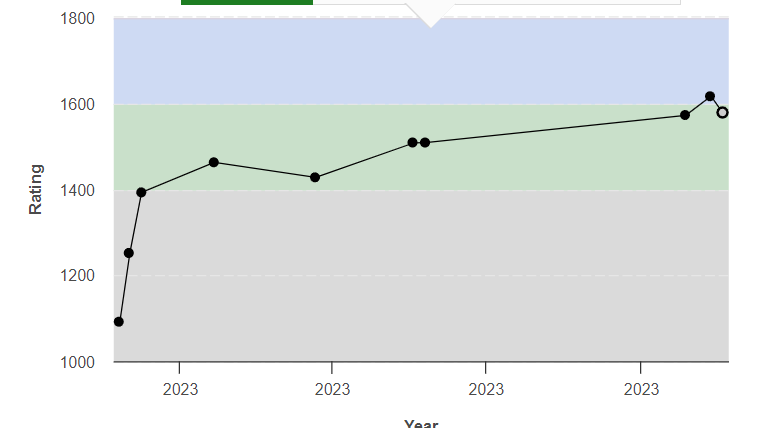
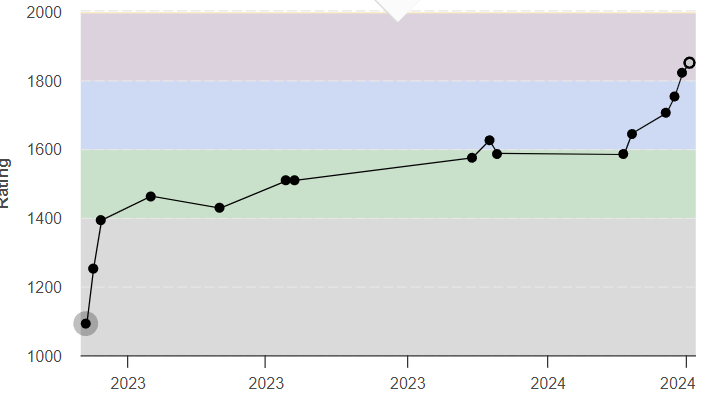
Done Some Changes

diff --git a/src/sections/Education.jsx b/src/sections/Education.jsx
@@ -44,9 +44,9 @@ const Education = ({ dark }) => {
                                 <div
                                     data-aos="fade-up"
                                     className='relative w-full ml-4' key={i}>
-                                    <div className={`z-[2] absolute inset-y-4 -left-6 animate-ping w-6 h-6 rounded-full border-2 ${dark ? 'border-slate-100 bg-pink-600' : 'border-slate-700 bg-green-300'} `} />
-                                    <div className={`z-[2] absolute inset-y-4 -left-6  w-6 h-6 rounded-full border-2 ${dark ? 'border-slate-100 bg-pink-600' : 'border-slate-700 bg-green-500'} `} />
-                                    <div className={`z-[2] absolute inset-y-6 -left-0 w-12 h-1 rounded-r-3xl   ${dark ? 'bg-purple-400' : 'bg-blue-500'}`} />
+                                    <div className={`z-[2] absolute inset-y-2 -left-6 animate-ping w-6 h-6 rounded-full border-2 ${dark ? 'border-slate-100 bg-pink-600' : 'border-slate-700 bg-green-300'} `} />
+                                    <div className={`z-[2] absolute inset-y-2 -left-6  w-6 h-6 rounded-full border-2 ${dark ? 'border-slate-100 bg-pink-600' : 'border-slate-700 bg-green-500'} `} />
+                                    <div className={`z-[2] absolute inset-y-4 -left-0 w-12 h-1 rounded-r-3xl   ${dark ? 'bg-purple-400' : 'bg-blue-500'}`} />
                                     <EducationCard dark={dark} edu={edu} />
                                 </div>
                             ))
@@ -56,9 +56,9 @@ const Education = ({ dark }) => {
                                 <div
                                     data-aos="fade-up"
                                     className='relative w-full ml-4' key={i}>
-                                    <div className={`z-[2] absolute inset-y-4 -left-6 animate-ping w-6 h-6 rounded-full border-2 ${dark ? 'border-slate-100 bg-pink-600' : 'border-slate-700 bg-green-300'} `} />
-                                    <div className={`z-[2] absolute inset-y-4 -left-6  w-6 h-6 rounded-full border-2 ${dark ? 'border-slate-100 bg-pink-600' : 'border-slate-700 bg-green-500'} `} />
-                                    <div className={`z-[2] absolute inset-y-6 -left-0 w-12 h-1 rounded-r-3xl   ${dark ? 'bg-purple-400' : 'bg-blue-500'}`} />
+                                    <div className={`z-[2] absolute inset-y-2 -left-6 animate-ping w-6 h-6 rounded-full border-2 ${dark ? 'border-slate-100 bg-pink-600' : 'border-slate-700 bg-green-300'} `} />
+                                    <div className={`z-[2] absolute inset-y-2 -left-6  w-6 h-6 rounded-full border-2 ${dark ? 'border-slate-100 bg-pink-600' : 'border-slate-700 bg-green-500'} `} />
+                                    <div className={`z-[2] absolute inset-y-4 -left-0 w-12 h-1 rounded-r-3xl   ${dark ? 'bg-purple-400' : 'bg-blue-500'}`} />
                                     <AchievementCard dark={dark} achievement={achievement} />
                                 </div>
                             ))

diff --git a/src/sections/Contact.jsx b/src/sections/Contact.jsx
@@ -4,9 +4,9 @@ const Contact = ({ dark }) => {
 
     const aboutMe = {
         intro: "Deepanshu Singhal",
-        current: `Pursuing <b>B.Tech</b> in CSE from <br/>Netaji Subhas University Of Technology<b>`,
+        current: ` <b>B.Tech  CSE  NSIT<b>`,
         info: "Full Stack Developer ",
-        email: `Email: <b>deepanshusinghal2003@gmail.com</b>`,
+        email: `Email: <i>deepanshusinghal2003@gmail.com</i>`,
         location: "Location: <b>New Delhi, IN </b>"
     }
 
@@ -28,7 +28,7 @@ const Contact = ({ dark }) => {
                     <div className='relative max-w-max flex items-center justify-center  mx-auto group'
                         data-aos="fade-right">
                         {/* drop shadow */}
-                        <div className={`absolute w-1/2 md:w-1/2 aspect-square rounded-full  top-[20%]  left-[20%]  ${dark ? 'bg-[#eb26fd]' : 'bg-[#4942E4]'}  blur-[100px] group-hover:translate-x-[30%] group-hover:translate-y-[10%] transition-all duration-500`} />
+                        <div className={`absolute w-1/2 md:w-1/2 aspect-square rounded-full  top-[20%]  left-[20%]  ${dark ? 'bg-[#d580dd]' : 'bg-[#7873c4]'}  blur-[100px] group-hover:translate-x-[30%] group-hover:translate-y-[10%] transition-all duration-500`} />
                         <div className={`max-w-max flex flex-col gap-4  justify-center  text-[1rem] shadow-sm  rounded-3xl ${dark ? 'border-slate-400 shadow-slate-100' : 'border-slate-800 shadow-slate-800'} py-10 px-4 md:px-10  `}>
                             <div className={`text-[2.5rem] w-max ${dark ? 'text-pink-600' : 'text-sky-600'} font-semibold tracking-widest  font-heading `}>
                                 {aboutMe?.intro}</div>
@@ -42,7 +42,7 @@ const Contact = ({ dark }) => {
                     <div className='w-full'
                         data-aos="fade-left">
                         <div
-                            className={`w-full  shadow-md rounded-lg ${dark ? 'shadow-stone-100' : 'shadow-stone-700'}`}>
+                            className={`w-full  shadow-md rounded-lg ${dark ? 'shadow-stone-100' : 'shadow-stone-400'}`}>
                             <ContactUsForm dark={dark} />
                         </div>
                     </div>

diff --git a/src/components/AchievementCard.jsx b/src/components/AchievementCard.jsx
@@ -3,15 +3,17 @@ import React from 'react'
 const AchievementCard = ({ achievement, dark }) => {
     const { title } = achievement ?? {};
     return (
-        <div 
+        <div
             data-aos-anchor-placement="top-bottom"
             data-aos-delay="200"
-            className={`relative group ${dark ? 'bg-slate-900 shadow-stone-600' : 'bg-slate-300 ackdrop-blur-2xl '} h-max shadow-lg md:ml-4   w-full pt-10 pb-8 px-3 md:px-6 cursor-pointer rounded-2xl  transition-all duration-300 overflow-hidden`}>
-            
-            <div className={`${dark ? 'hidden' : 'absolute'} w-1/2 md:w-1/2 aspect-square rounded-full  top-[0%]  left-[50%] translate-x-[0%] translate-y-[0%] ${!dark ? 'bg-[#eb26fd] ' : 'bg-[#4942E4]'}  blur-[150px] group-hover:translate-x-[-20%] group-hover:translate-y-[-50%] transition-all duration-300`} />
+            className={`relative group ${dark ? 'bg-slate-900 shadow-stone-600' : 'bg-slate-300 ackdrop-blur-2xl '}  shadow-lg md:ml-4   w-full py-6 pb-4 px-3 md:px-6 cursor-pointer rounded-2xl  transition-all duration-300 overflow-hidden`}>
+
+            {/* <div className={`${dark ? 'hidden' : 'absolute'} w-1/2 md:w-1/2 aspect-square rounded-full  top-[0%]  left-[50%] translate-x-[0%] translate-y-[0%] ${!dark ? 'bg-[#eb26fd] ' : 'bg-[#4942E4]'}  blur-[150px] group-hover:translate-x-[-20%] group-hover:translate-y-[-50%] transition-all duration-300`} /> */}
 
             <div className='w-full flex flex-col gap-y-2 justify-between'>
-                <div className={`text-[1.2rem] font-semibold ${dark ? 'text-pink-600' : 'text-sky-900'} tracking-wider `}>{title}</div>
+                <div className={`text-[1.2rem] font-semibold ${dark ? 'text-pink-600' : 'text-sky-900'} tracking-wider `}>
+                    {title}
+                </div>
             </div>
         </div>
     )

diff --git a/src/form/ContactUsForm.jsx b/src/form/ContactUsForm.jsx
@@ -36,12 +36,12 @@ const ContactUsForm = ({ dark }) => {
     }, [isSubmitSuccessful, reset])
     return (
         <form onSubmit={handleSubmit(submitContactForm)}
-            className={`w-full flex flex-col gap-4 px-2 md:px-4 rounded-xl  py-6 text-[1rem] ${dark ? 'dark' : ' bg-stone-200'}`}>
+            className={`w-full flex flex-col gap-4 px-2 md:px-4 rounded-xl  py-6 text-[1rem] ${dark ? 'dark' : ' bg-slate-300'}`}>
 
             <div className='text-[2rem]  text-center underline underline-offset-8'>Let's Talk</div>
 
             <div className='relative w-full '>
-                <label htmlFor='name'>Name<sup className='text-pink-100'>*</sup> </label>
+                <label htmlFor='name'>Name <sup className='text-pink-500'>*</sup> </label>
                 <input
                     type="text"
                     name="name"
@@ -60,7 +60,7 @@ const ContactUsForm = ({ dark }) => {
 
 
             <div  className='relative w-full '>
-                <label htmlFor='email' >Email<sup className='text-pink-100'>*</sup> </label>
+                <label htmlFor='email' >Email <sup className='text-pink-500'>*</sup> </label>
                 <input
                     type="email"
                     name="email"
@@ -77,7 +77,7 @@ const ContactUsForm = ({ dark }) => {
             </div>
 
             <div  className='relative w-full '>
-                <label htmlFor='message' >Message<sup className='text-pink-100'>*</sup> </label>
+                <label htmlFor='message' >Message <sup className='text-pink-500'>*</sup> </label>
                 <textarea
                     rows={2}
                     type="text"

diff --git a/src/components/EducationCard.jsx b/src/components/EducationCard.jsx
@@ -3,10 +3,11 @@ import React from 'react'
 const EducationCard = ({ dark, edu }) => {
     const { title, institute, duration, grade, percent } = edu;
     return (
-        <div className={`relative   ${dark ? 'bg-slate-900 shadow-stone-600' : 'bg-slate-300 ackdrop-blur-2xl '} shadow-lg   w-full pt-10 pb-8 px-3 md:px-6 cursor-pointer rounded-2xl transition-all duration-300 group overflow-hidden`}>
+        <div className={`relative   ${dark ? 'bg-slate-900 shadow-stone-600' : 'bg-slate-300 ackdrop-blur-2xl '} shadow-lg   w-full pt-6 pb-6 px-3 md:px-4 cursor-pointer rounded-2xl transition-all duration-300 group overflow-hidden`}>
 
+           
 
-            <div className={`${dark?'hidden':'absolute'} w-1/2 md:w-1/2 aspect-square rounded-full  top-[0%]  left-[50%] translate-x-[0%] translate-y-[0%] ${!dark ? 'bg-[#eb26fd] ' : 'bg-[#4942E4]'}  blur-[150px] group-hover:translate-x-[-20%] group-hover:translate-y-[-50%] transition-all duration-300`} />
+            {/* <div className={`${dark?'hidden':'absolute'} w-1/2 md:w-1/2 aspect-square rounded-full  top-[0%]  left-[50%] translate-x-[0%] translate-y-[0%] ${!dark ? 'bg-blue-300 ' : 'bg-[#4942E4]'}  blur-[150px] group-hover:translate-x-[-20%] group-hover:translate-y-[-50%] transition-all duration-300`} /> */}
 
             <div className='w-full flex flex-col justify-between'>
                 <div className={`text-[1.5rem] font-semibold ${dark ? 'text-pink-600' : 'text-sky-900'} tracking-wider`}>{title}</div>

diff --git a/src/components/CertificateCard.jsx b/src/components/CertificateCard.jsx
@@ -1,8 +1,13 @@
 import React, { Suspense } from 'react'
 const LoadImage = React.lazy(() => import('./LoadImage'));
 
-const CertificateCard = ({ dark, certificate }) => {
-    const { title, image, enterAnimation, delay } = certificate ?? {};
+const CertificateCard = ({ dark, certificate, haveUrl = false }) => {
+    const { title, image, enterAnimation, delay,url='' } = certificate ?? {};
+    const handleClick = () => {
+        if (haveUrl) {
+            window.open(url, '_blank');
+        }
+    }
     return (
         <div
             data-aos={`${enterAnimation}`}
@@ -11,10 +16,10 @@ const CertificateCard = ({ dark, certificate }) => {
             <div
 
                 className={`relative group w-full     ${dark ? 'bg-slate-900 shadow-yellow-600' : 'bg-slate-300'}   cursor-pointer  overflow-hidden rounded-3xl`}>
-                
+
                 <div className={`absolute w-1/3 md:w-1/3 aspect-square rounded-full  top-[50%]  left-[50%] translate-x-[50%] translate-y-[50%] ${dark ? 'bg-[#eb26fd]' : 'bg-[#4942E4]'}  blur-[100px] group-hover:translate-x-[-100%] group-hover:translate-y-[10%] transition-all duration-300`} />
 
-                <div className=' w-full flex flex-col gap-y-2  '>
+                <div className=' w-full flex flex-col gap-y-2  ' onClick={handleClick}>
 
 
                     <div className='relative group w-full  overflow-hidden aspect-video rounded-t-3xl'>

diff --git a/src/data/Ranking.js b/src/data/Ranking.js
@@ -1,26 +1,30 @@
 export const rankings = [
     {
-        title: "Pupil At Codeforces Max (1407)",
+        title: "Specilist At Codeforces Max (1471)",
         image: require('../assets/codeforcesRanking.png'),
         enterAnimation: 'fade-right',
-        delay: 100
+        delay: 100,
+        url:'https://codeforces.com/profile/deepanshu.singhal16',
     },
     {
-        title: "Knight At LeetCode (Top 5%)",
+        title: "Knight At LeetCode (Top 3%)",
         image: require('../assets/leetcodeRanking.png'),
         enterAnimation: 'fade-left',
-        delay: 200
+        delay: 200,
+        url:'https://leetcode.com/singhal03/',
     },
     {
-        title: "Solved 300+ Questions on GFG",
+        title: "Solved 350+ Questions on GFG",
         image: require('../assets/gfgRanking.png'),
         enterAnimation: 'fade-right',
-        delay: 100
+        delay: 100,
+        url:'https://auth.geeksforgeeks.org/user/deepanshusinghal16',
     },
     {
-        title: "Max 3Star at Codechef",
+        title: "Max 4 Star at Codechef (1800 +)",
         image: require('../assets/codechefRanking.png'),
         enterAnimation: 'fade-left',
-        delay: 200
+        delay: 200,
+        url:'https://www.codechef.com/users/d_singhal16',
     },
 ]

diff --git a/src/data/achievementData.js b/src/data/achievementData.js
@@ -1,14 +1,14 @@
 export const achievements = [
     {
-        title: `Specialist At Codeforces with a maximum rating of <b>1400+</b>`
+        title: `Specialist At Codeforces with a maximum rating of 1400+`
     },
     {
-        title: `4-Star Coder At Codechef with maximum rating of <b>1800+</b>`
+        title: `4-Star Coder At Codechef with maximum rating of 1800+`
     },
     {
-        title: `Successfully solved over <b>1000+</b> problems on LeetCode.`
+        title: `Successfully solved over 1000+ problems on LeetCode.`
     },
     {
-        title: `Knight at LeetCode with rating of <b>2000+ (Global Top 3%)</b>`
+        title: `Knight at LeetCode with rating of 2000+ (Global Top 3%)`
     }
 ]

diff --git a/src/sections/Home.jsx b/src/sections/Home.jsx
@@ -60,7 +60,7 @@ const Home = ({ dark }) => {
 
 
                 <div className='relative w-full min-h-[60vh] '>
-                    <div className='animate-backdrop absolute w-[250px] md:w-[350px] aspect-square rounded-full    bg-[#eb26fd] z-1 blur-[130px]' />
+                    <div className={`animate-backdrop absolute w-[250px] md:w-[350px] aspect-square rounded-full     z-1 blur-[130px] ${dark ? 'bg-[#eb26fd]' :'bg-[#5b66dc]'}`} />
                     <Suspense fallback={<p>Loading Img</p>}>
                         <ProfileImg dark={dark} />
                     </Suspense>

diff --git a/src/sections/Ranking.jsx b/src/sections/Ranking.jsx
@@ -21,7 +21,7 @@ const Ranking = ({ dark }) => {
                     {
                         rankings?.map((rank, i) =>
                             <div className='w-full lg:max-w-[35%] h-max' key={i}>
-                                <CertificateCard dark={dark} certificate={rank} />
+                                <CertificateCard dark={dark} certificate={rank} haveUrl={true} />
                             </div>)
                     }
                 </div>

diff --git a/src/data/educationData.js b/src/data/educationData.js
@@ -3,7 +3,7 @@ export const education = [
         title: "B.Tech (CSE)",
         institute: "Netaji Subhas University Of Technology",
         duration: "2021 - 2025",
-        grade: "8.5 GPA",
+        grade: "8.42 GPA",
         percent: '80.79'
     },
     {

diff --git a/src/components/ProfileImg.jsx b/src/components/ProfileImg.jsx
@@ -5,7 +5,7 @@ const ProfileImg = ({ dark }) => {
     useCountUp({
         ref: 'projectCounter',
         start: 0,
-        end: 10,
+        end: 5,
         duration: 6,
         enableScrollSpy: true,
         scrollSpyDelay: 1000,
